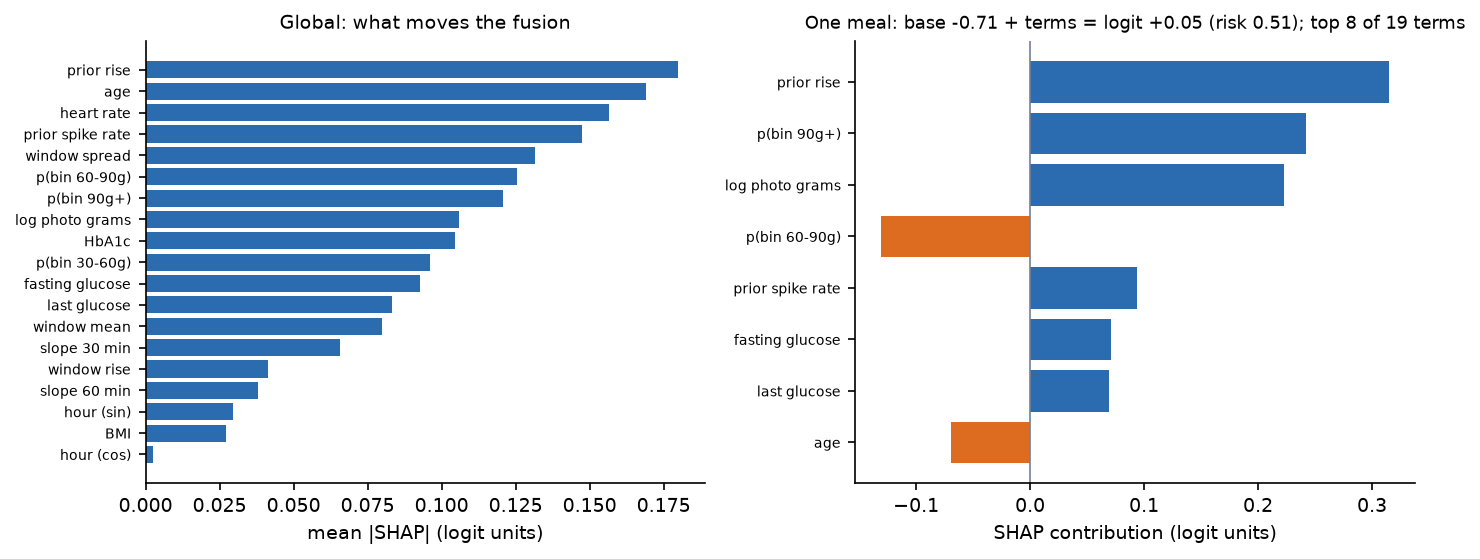
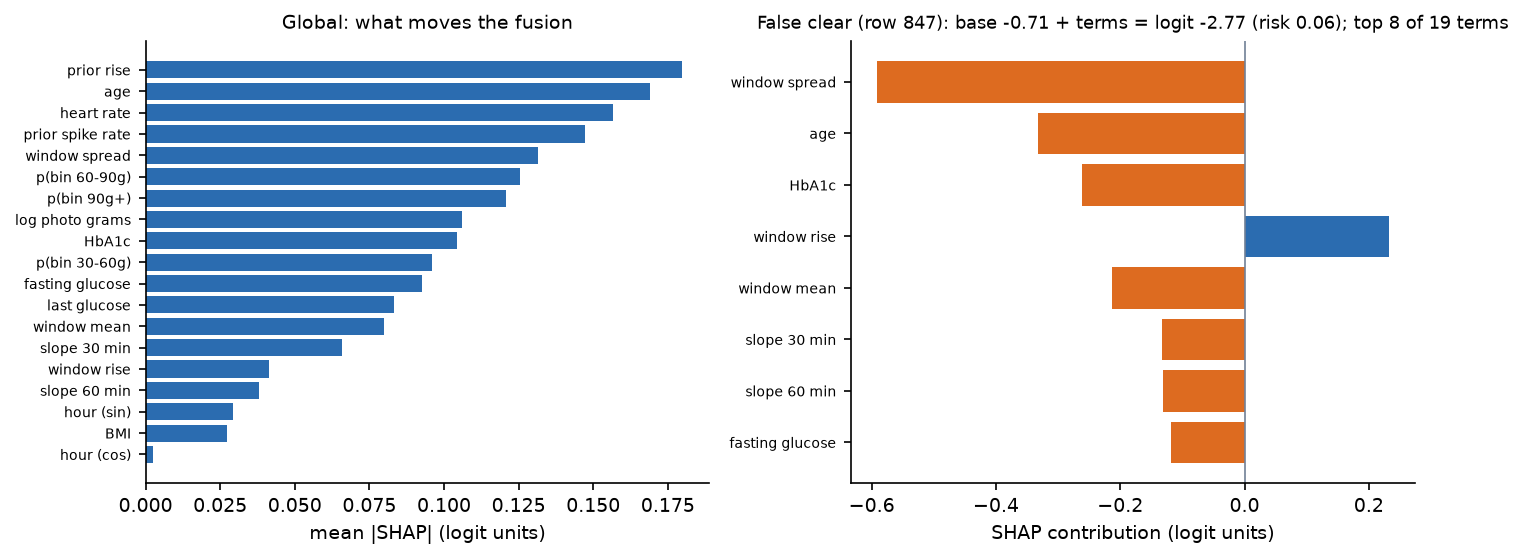
Figure 6 local panel on a T5 false clear
Claude-Session: https://claude.ai/code/session_01U1MwL7j11MLBZ4KUvxGUHV

diff --git a/src/glimpse/figures.py b/src/glimpse/figures.py
@@ -304,8 +304,9 @@ def f6_shap(plt, da: pd.DataFrame) -> dict:
     zdf = pd.DataFrame(z, columns=FEATURE_NAMES)
     zdf.insert(0, "row", rows)
     zdf.to_csv(OUT / "shap_features_z.csv", index=False)  # a grader can redo the sum check without data/
-    # local meal: the answered meal whose raw risk is closest to 0.5 (stated, deterministic)
-    i = int(np.argmin(np.abs(answered.risk_raw.to_numpy() - 0.5)))
+    # local meal (26 Nov): row 847, a confident false clear (T5, cold start) the report discusses; it was the meal
+    # whose raw risk is closest to 0.5 before, which says little about the 0.15 cut
+    i = int(np.where(rows == 847)[0][0])
     logit_i = float(z[i] @ coefs + lr.intercept_[0])
     recon = base_logit + float(contrib[i].sum())
     assert abs(recon - logit_i) < 1e-6, f"SHAP terms do not sum to the logit: {recon} vs {logit_i}"
@@ -323,7 +324,7 @@ def f6_shap(plt, da: pd.DataFrame) -> dict:
     axes[1].set_yticks(np.arange(len(top))[::-1], [shown[j] for j in top], fontsize=6.8)
     axes[1].axvline(0, color=GREY, lw=0.8)
     axes[1].set_xlabel("SHAP contribution (logit units)")
-    axes[1].set_title(f"One meal: base {base_logit:+.2f} + terms = logit {logit_i:+.2f} (risk "
+    axes[1].set_title(f"False clear (row 847): base {base_logit:+.2f} + terms = logit {logit_i:+.2f} (risk "
                       f"{1 / (1 + np.exp(-logit_i)):.2f}); top 8 of 19 terms", fontsize=8.5)  # fmt: skip
     fig.tight_layout()
     fig.savefig(OUT / "f6_shap.png")

diff --git a/docs/changelog.md b/docs/changelog.md
@@ -171,3 +171,4 @@ author's standing instruction, not approved one by one.
 | README diagram, samples/README (prior fields, R13), instructor MANIFEST row 09, this changelog's header | front-door staleness (2 of 3) | README.md, samples/ |
 | CGM-removal contrast with a paired interval: no-photo arm minus profile only, both with the intercept, +0.033 (+0.007, +0.065), the one established sensor contribution; unfamiliar-photo table (training leave-one-out 1.1% refused, 0 of 14 real local photos, synthetic week median 0.709, instructor screenshot refused, dark photo 0.613 caught by the contrast rule) | no direct CGM ablation; OOD evidence scattered (3 of 3) | report_metrics.json `fair_baselines.cgm_removal`; report §3, §4 |
 | Figure 7 gains a cost panel from `coverage_risk`: on development any abstention raises cost; on the locked eight abstaining the nearest 10% would have lowered it (0.543 against 0.593), descriptive | the coverage curve was not tied to the cost model (2 of 3) | outputs/figures/f7_coverage.png |
+| Figure 6's local panel shows row 847, a confident false clear, instead of the meal nearest risk 0.5 | the old example said nothing about the 0.15 cut (1 of 3) | outputs/figures/f6_shap.png |

diff --git a/docs/final_report.md b/docs/final_report.md
@@ -395,7 +395,7 @@ photo terms (together 0.33 logit per meal against an unestablished gain): attrib
 use, ablation out-of-sample loss. Heart rate is not redundant (R² 0.19 from the other inputs), so its
 −0.21 coefficient is best read as in-sample signal that does not generalise.
 
-![Figure 6: exact linear SHAP for the frozen fusion, in-sample (the sum to the logit is an arithmetic check); the local meal is the one whose out-of-fold raw risk is closest to 0.5](../outputs/figures/f6_shap.png)
+![Figure 6: exact linear SHAP for the frozen fusion, in-sample (the sum to the logit is an arithmetic check); the local panel is row 847, a confident false clear (T5) that spiked](../outputs/figures/f6_shap.png)
 
 Probe C, registered last, moved each profile input from its 10th to its 90th percentile: risk rises with
 HbA1c, fasting glucose, prior spike rate and prior rise on every meal (median +0.06 to +0.12), which the
